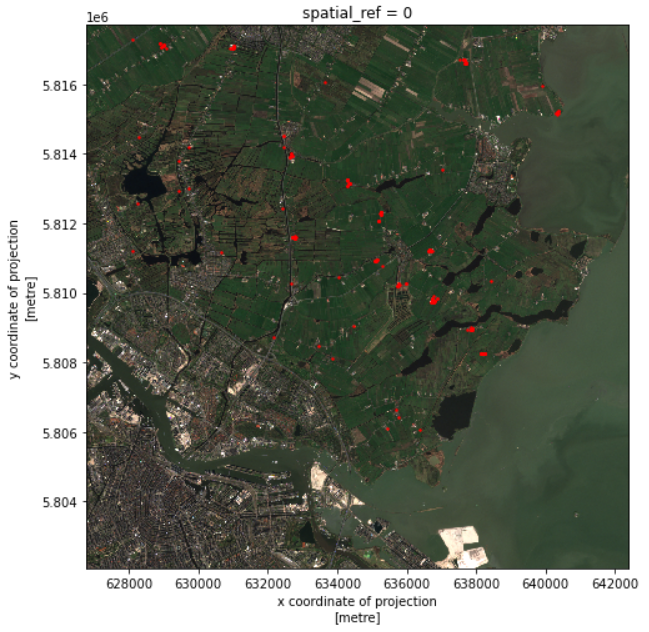
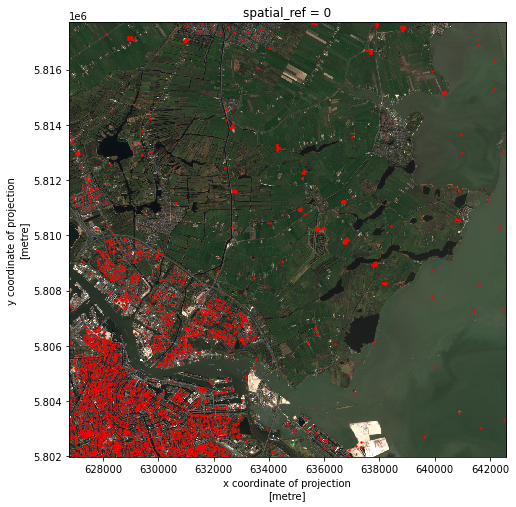
fix raster cropping by wells

diff --git a/_episodes/08-crop-raster-data.md b/_episodes/08-crop-raster-data.md
@@ -279,6 +279,11 @@ It is not always the case that the AoI comes in the format of a polygon. Sometim
 wells = gpd.read_file("https://service.pdok.nl/bzk/brogmwvolledigeset/atom/v2_1/downloads/brogmwvolledigeset.zip")
 wells = wells.to_crs(raster_clip.rio.crs)
 
+# Crop the wells to the image extent
+xmin, xmax = raster_clip.x[[0, -1]]
+ymin, ymax = raster_clip.y[[0, -1]]
+wells = wells.cx[xmin:xmax, ymin:ymax]
+
 # Plot the wells over raster
 fig, ax = plt.subplots()
 fig.set_size_inches((8,8))
@@ -303,6 +308,8 @@ fig, (ax1, ax2) = plt.subplots(1, 2)
 fig.set_size_inches((16,8))
 raster_clip.plot.imshow(ax=ax1)
 wells_buffer.plot(ax=ax1, color='red')
+ax1.set_xlim([xmin, xmax])
+ax1.set_ylim([ymin, ymax])
 
 # Visualize cropped buffer
 raster_clip_wells.plot.imshow(ax=ax2)
